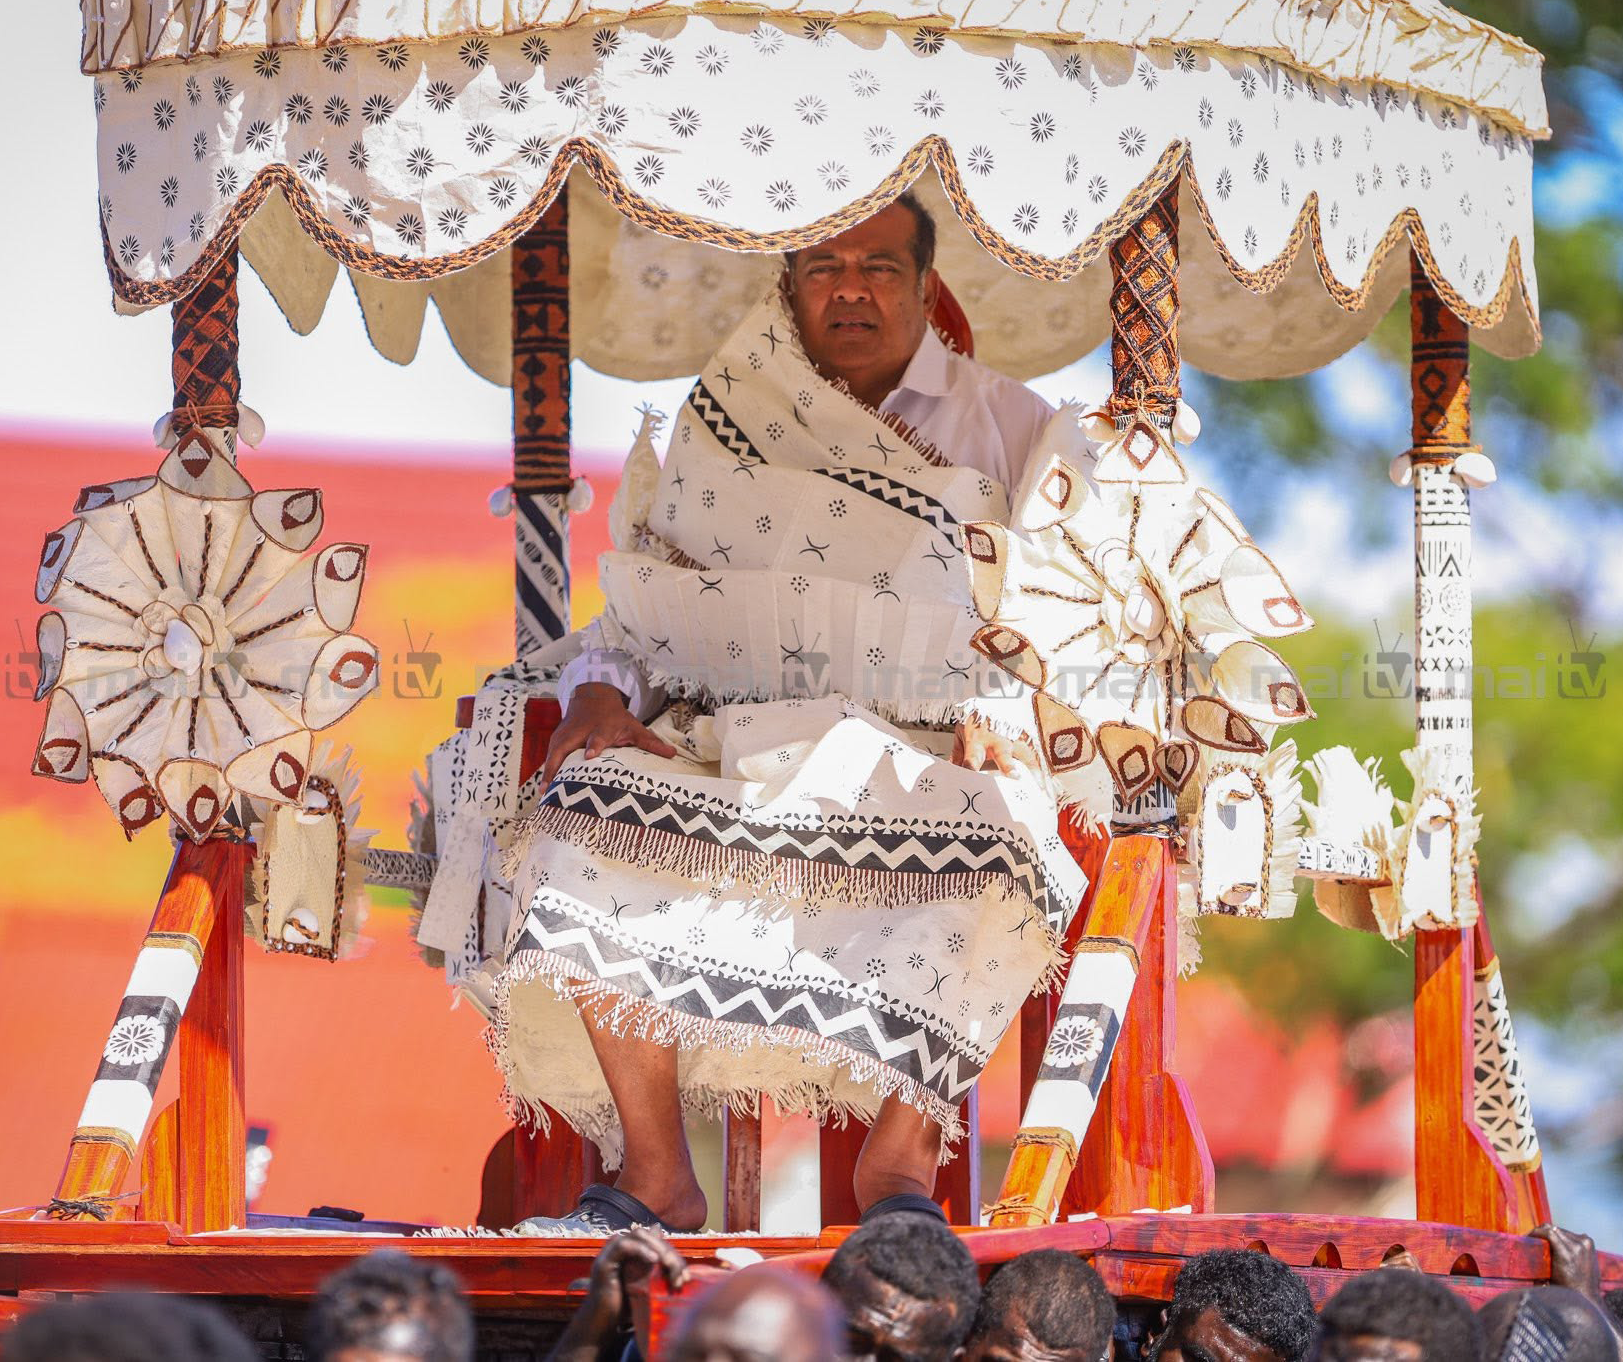
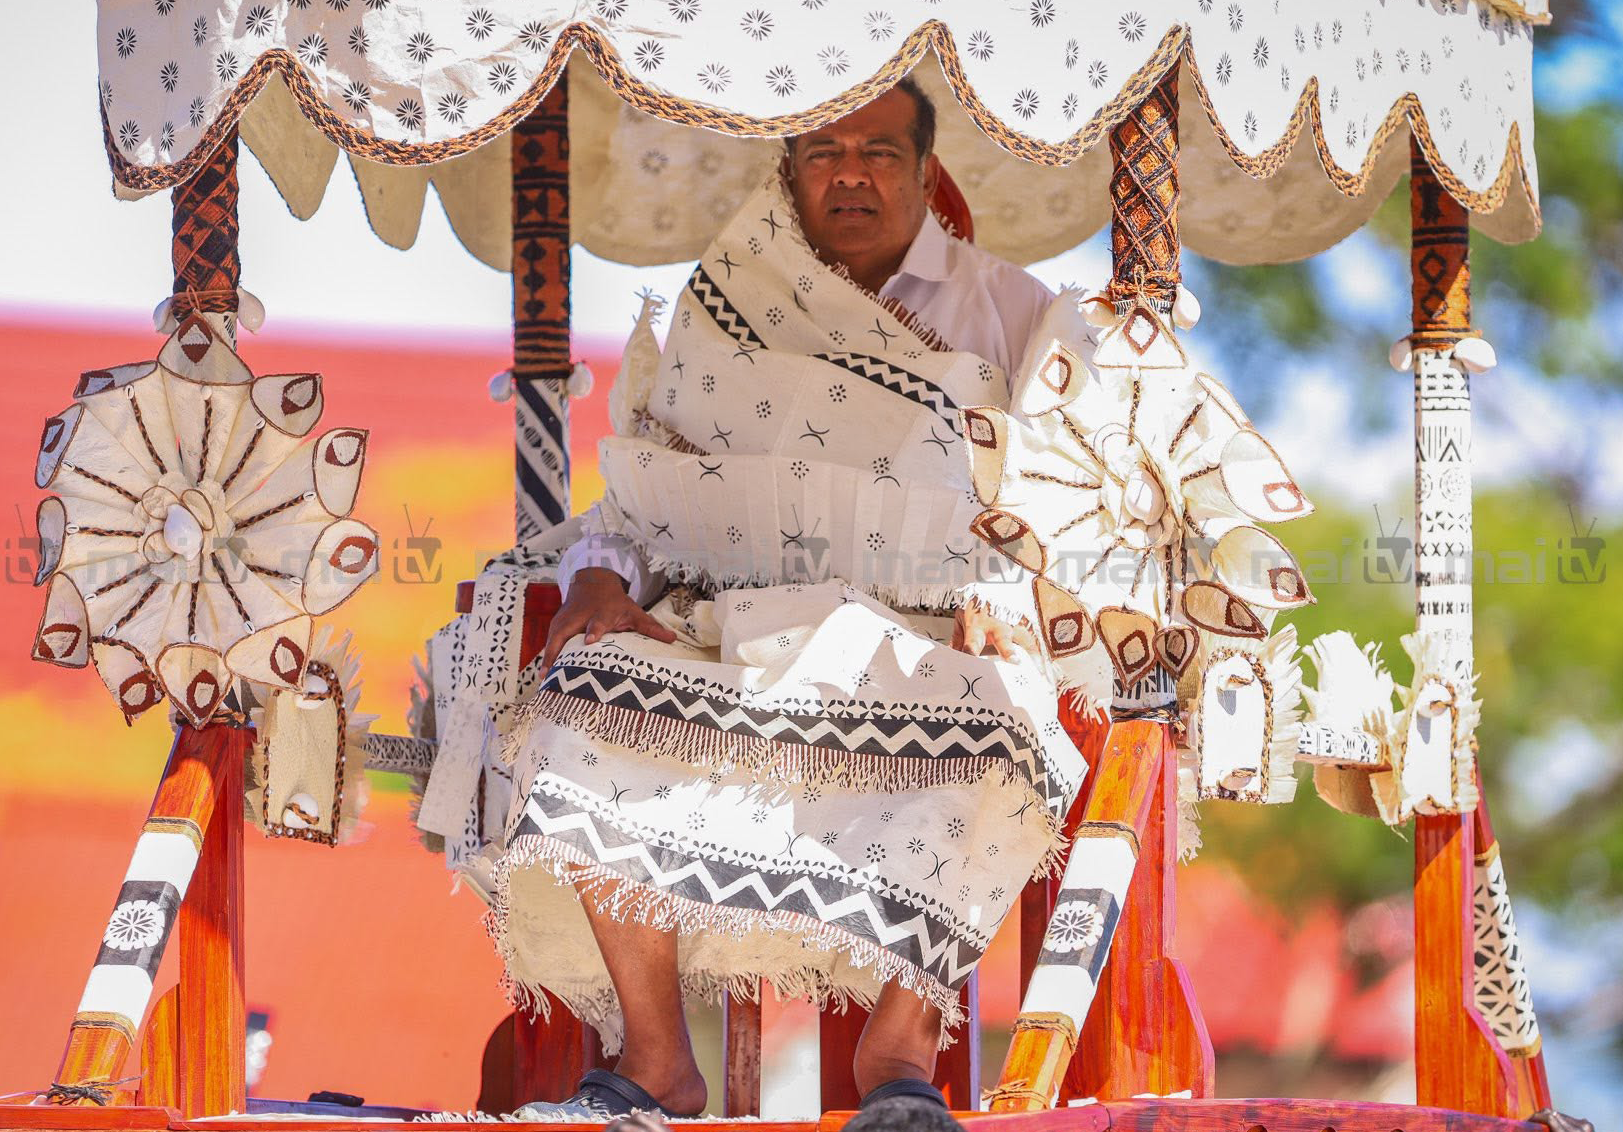
Updated homepage

diff --git a/templates/public/home.html b/templates/public/home.html
@@ -39,40 +39,56 @@
       Gone Turaga Bale na Tui Nayau, Sau ni Vanua ko Lau, Tui Lau
     </h2>
     <p class="mt-3 text-lau-muted max-w-2xl mx-auto">
-      A odra vakatatabu saka kivei keta a lewe ni Yasana ko Lau
+      <!--   A odra vakatatabu saka kivei keta a lewe ni Yasana ko Lau -->
     </p>
   </div>
   <div class="grid items-center gap-10 lg:grid-cols-2">
       
       <!-- LEFT: TEXT CONTENT -->
-      <div class="chief-honour-copy">
-        
-        <p class="section-lead">
-          A odra vakatatabu saka kivei keda na lewe ni Yasana ko Lau, me da
-          vakarokorokotaka ka maroroya na i tovo, na i vakarau, kei na
-          i tuvatuva vakavanua sa mai yaco mai ena noda kawa kei na noda vanua.
-        </p>
+<!--
+      
+<div class="chief-honour-copy">
 
-        <p class="section-copy">
-          Na tikina oqo e vakaraitaka na noda dokai na Turaga Bale ni Yasana,
-          kei na kena bibi me maroroi tiko ga na veiliutaki vakavanua,
-          na veiwekani vakaitikotiko, kei na yalo ni veiqaravi vata ena
-          loma ni Yasana ko Lau. E dua na ivakananumi ni noda itovo vakavanua
-          kei na noda i vakarau ni bula me vaka na kawa ni Lau.
-        </p>
+  <p class="section-kicker">Na noda iTovo kei na Vanua</p>
 
-        <p class="section-copy">
-          E tiko ena loma ni veivakatorocaketaki ni Yasana na bibi ni
-          vakaturagataki, na veilomani, na veidokai kei na veivakabauti,
-          me rawa ni toso vata kina na Yasana kei ira na luveda ena gauna mai muri.
-        </p>
+  <h2 class="section-title">
+    Me da Vakarokorokotaka ka Maroroya na Noda iYau Vakavanua
+  </h2>
 
-        <div class="chief-meta">
-          <span class="chief-pill">Na Yalo Vata</span>
-          <span class="chief-pill">Na Veiqaravi Vakavanua</span>
-          <span class="chief-pill">Na Dokai ni Vanua</span>
-        </div>
-      </div>
+  <p class="section-lead">
+    Me da vakarokorokotaka ka maroroya na i tovo, na i vakarau, kei na
+    i tuvatuva vakavanua sa mai soli mai vei keda mai vei ira na noda qase,
+    na noda kawa, kei na noda vanua.
+  </p>
+
+  <p class="section-copy">
+    Na iwasewase oqo e vakaraitaka na noda dokai ira na Turaga Bale ni Yasana,
+    ka vakadeitaka talega na bibi ni maroroi tiko ga na veiliutaki vakavanua,
+    na veiwekani vakaitikotiko, kei na yalo ni veiqaravi vata ena loma ni
+    Yasana ko Lau.
+  </p>
+
+  <p class="section-copy">
+    E dua oqo na ivakananumi ni noda itovo vakavanua kei na noda ivakarau ni bula
+    me vaka na kawa ni Lau — me da bula ena veidokai, na veilomani, na
+    veivakabauti, kei na vakaturagataki ni noda veiwekani vakavanua.
+  </p>
+
+  <p class="section-copy">
+    Ena loma ni veivakatorocaketaki ni Yasana, me dei tiko ga na yalo ni
+    duavata, na veiqaravi, kei na maroroi ni noda vanua, me rawa ni toso vata
+    kina na Yasana ko Lau kei ira na luveda ena veisiga ni mataka.
+  </p>
+
+  <div class="chief-meta">
+    <span class="chief-pill">Na Yalo Vata</span>
+    <span class="chief-pill">Na Veiqaravi Vakavanua</span>
+    <span class="chief-pill">Na Dokai ni Vanua</span>
+  </div>
+
+</div>
+
+-->
 
       <!-- RIGHT: IMAGE -->
       <div class="chief-honour-image-wrap">
@@ -84,6 +100,19 @@
           >
         </div>
       </div>
+
+      
+      <!-- RIGHT: IMAGE -->
+      <div class="chief-honour-image-wrap">
+        <div class="chief-image-frame">
+          <img
+            src="{% static 'images/TuiLau1.png' %}"
+            alt="Gone Turaga Bale na Tui Nayau, Sau ni Vanua ko Lau, Tui Lau"
+            class="chief-honour-image"
+          >
+        </div>
+      </div>
+
 
     </div>
 </section>

diff --git a/templates/tikina/detail.html b/templates/tikina/detail.html
@@ -16,7 +16,7 @@
     <span class="rounded bg-lau-gold px-3 py-1 text-sm font-semibold text-lau-navy">{{ tikina.island_group }}</span>
     <h1 class="mt-4 font-display text-5xl text-lau-gold">{{ tikina.name }}</h1>
     <p class="mt-3 text-lg">Koro Turaga: <strong>{{ tikina.koro_turaga }}</strong></p>
-    <p class="mt-1 text-sm text-lau-cream">{{ tikina.koro_count }} actual koro · {{ tikina.official_koro_count }} official count</p>
+    <p class="mt-1 text-sm text-lau-cream">{{ tikina.koro_count }} taucoko levu ni koro</p>
   </div>
 </section>
 {% include "partials/masi_divider.html" %}